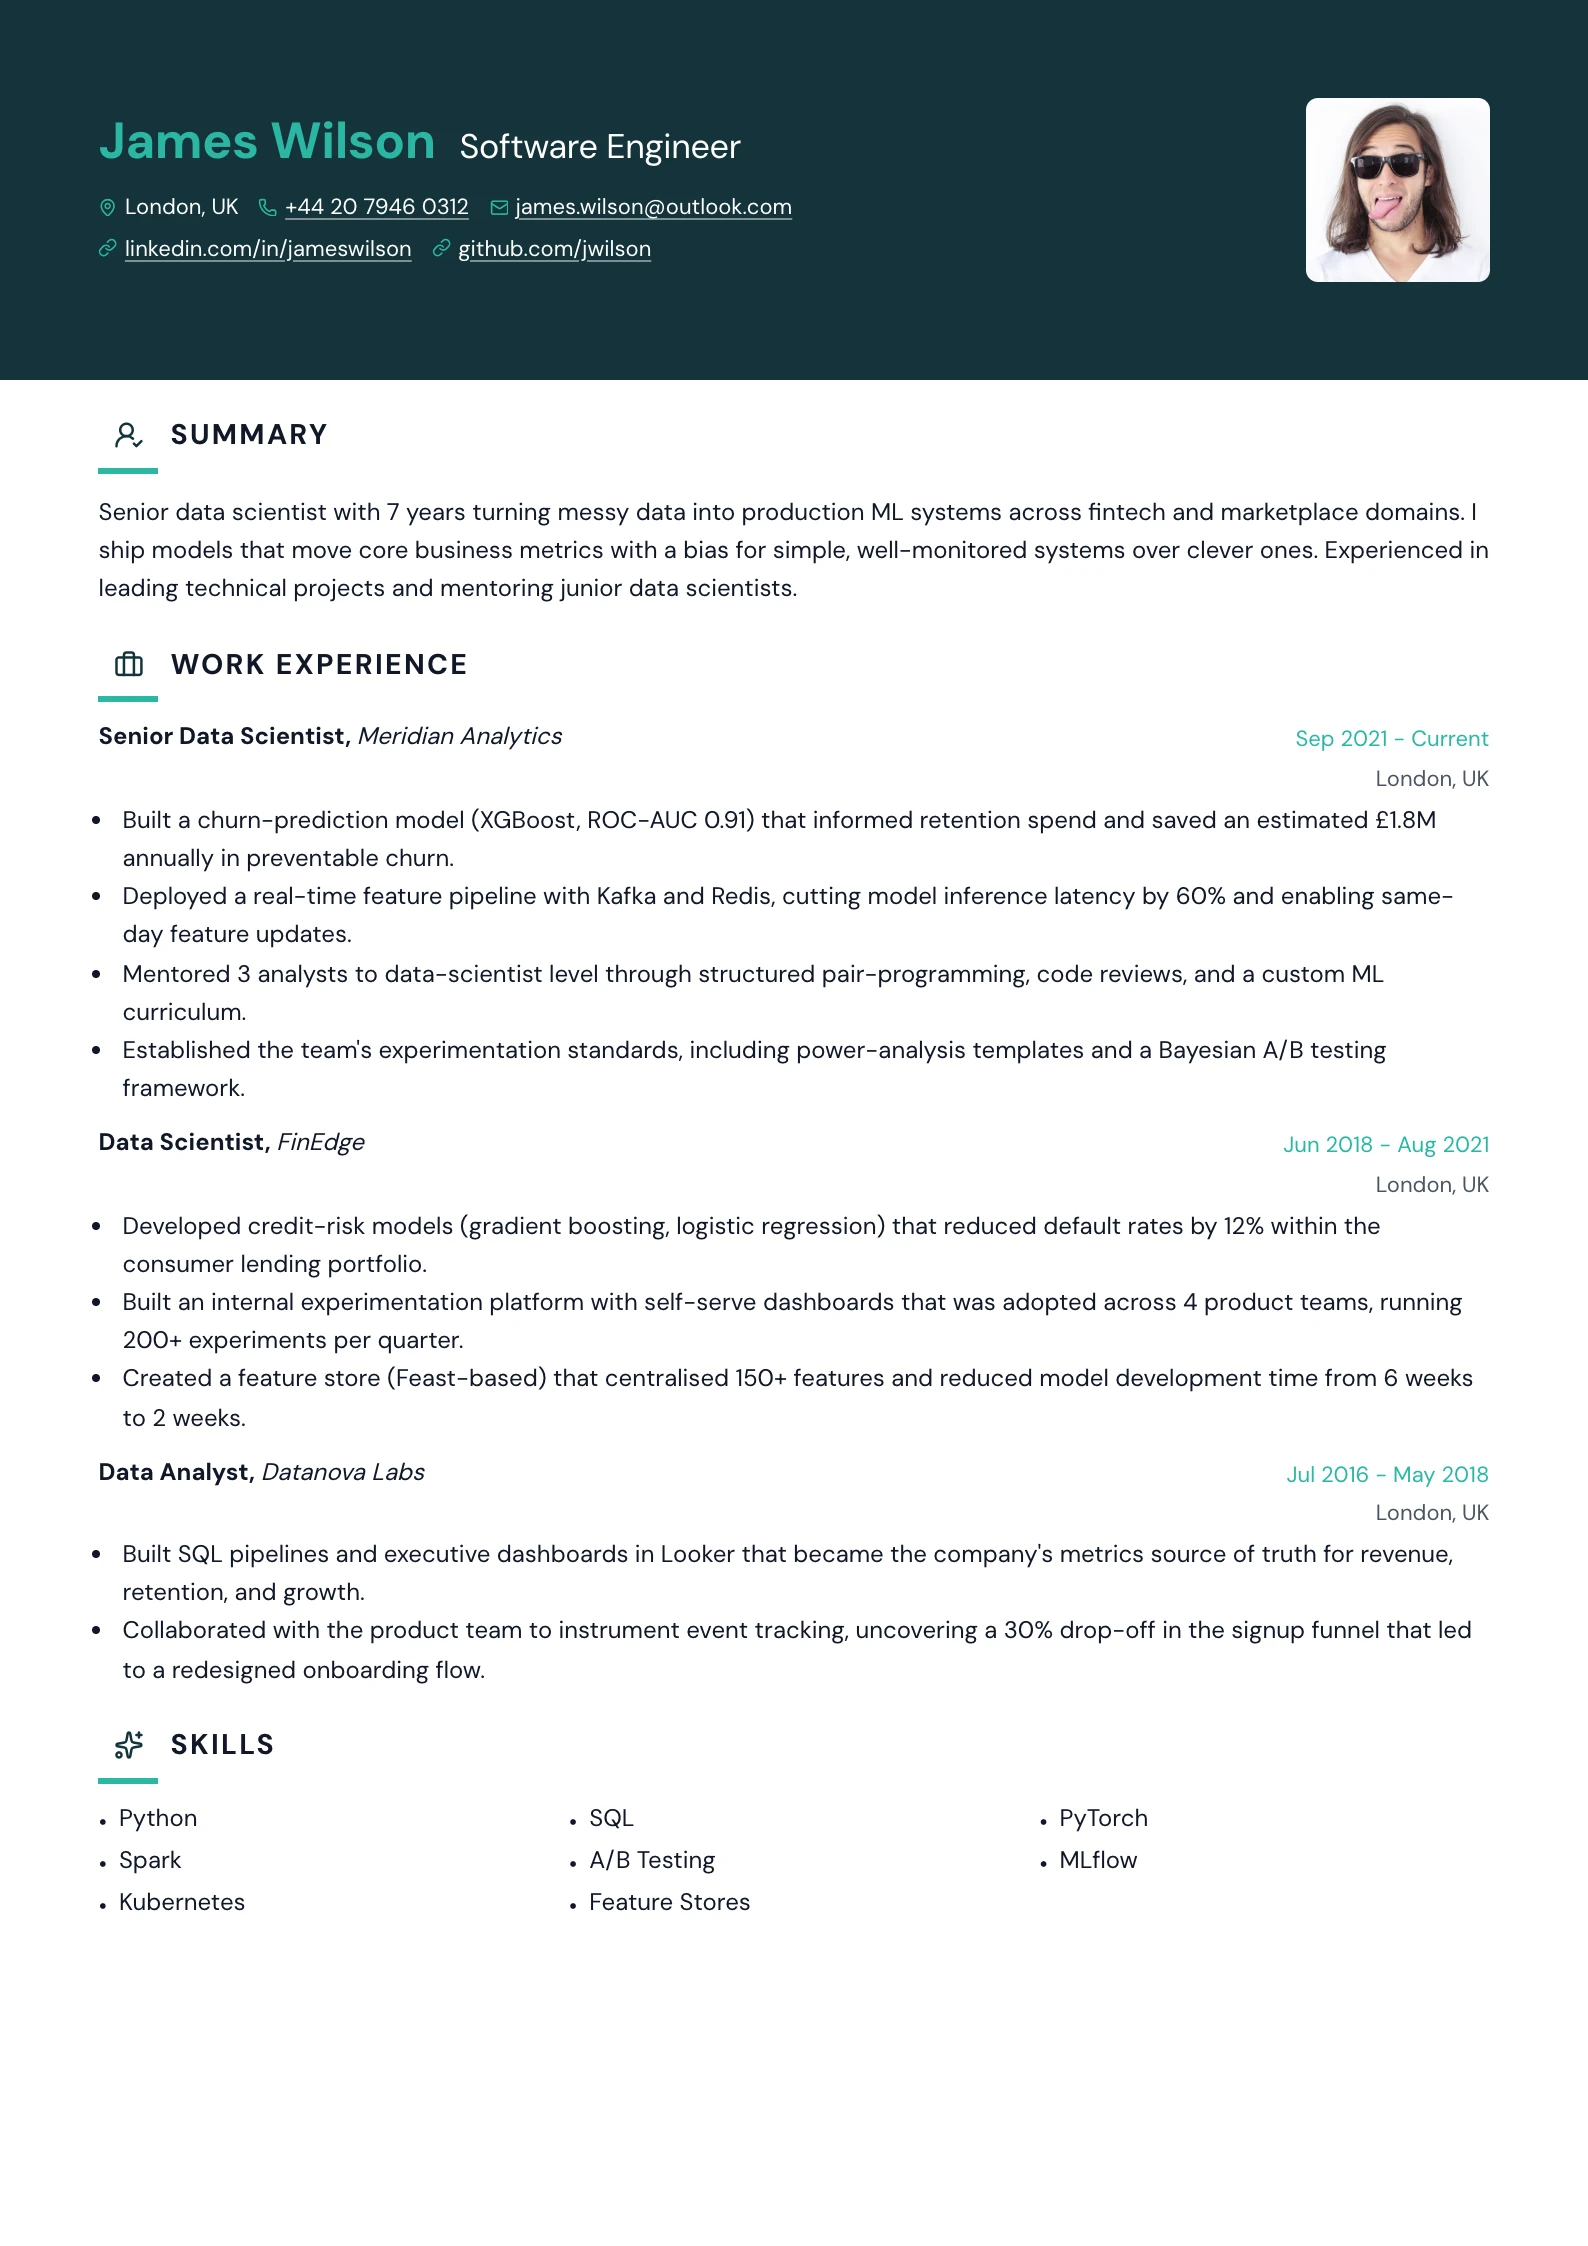
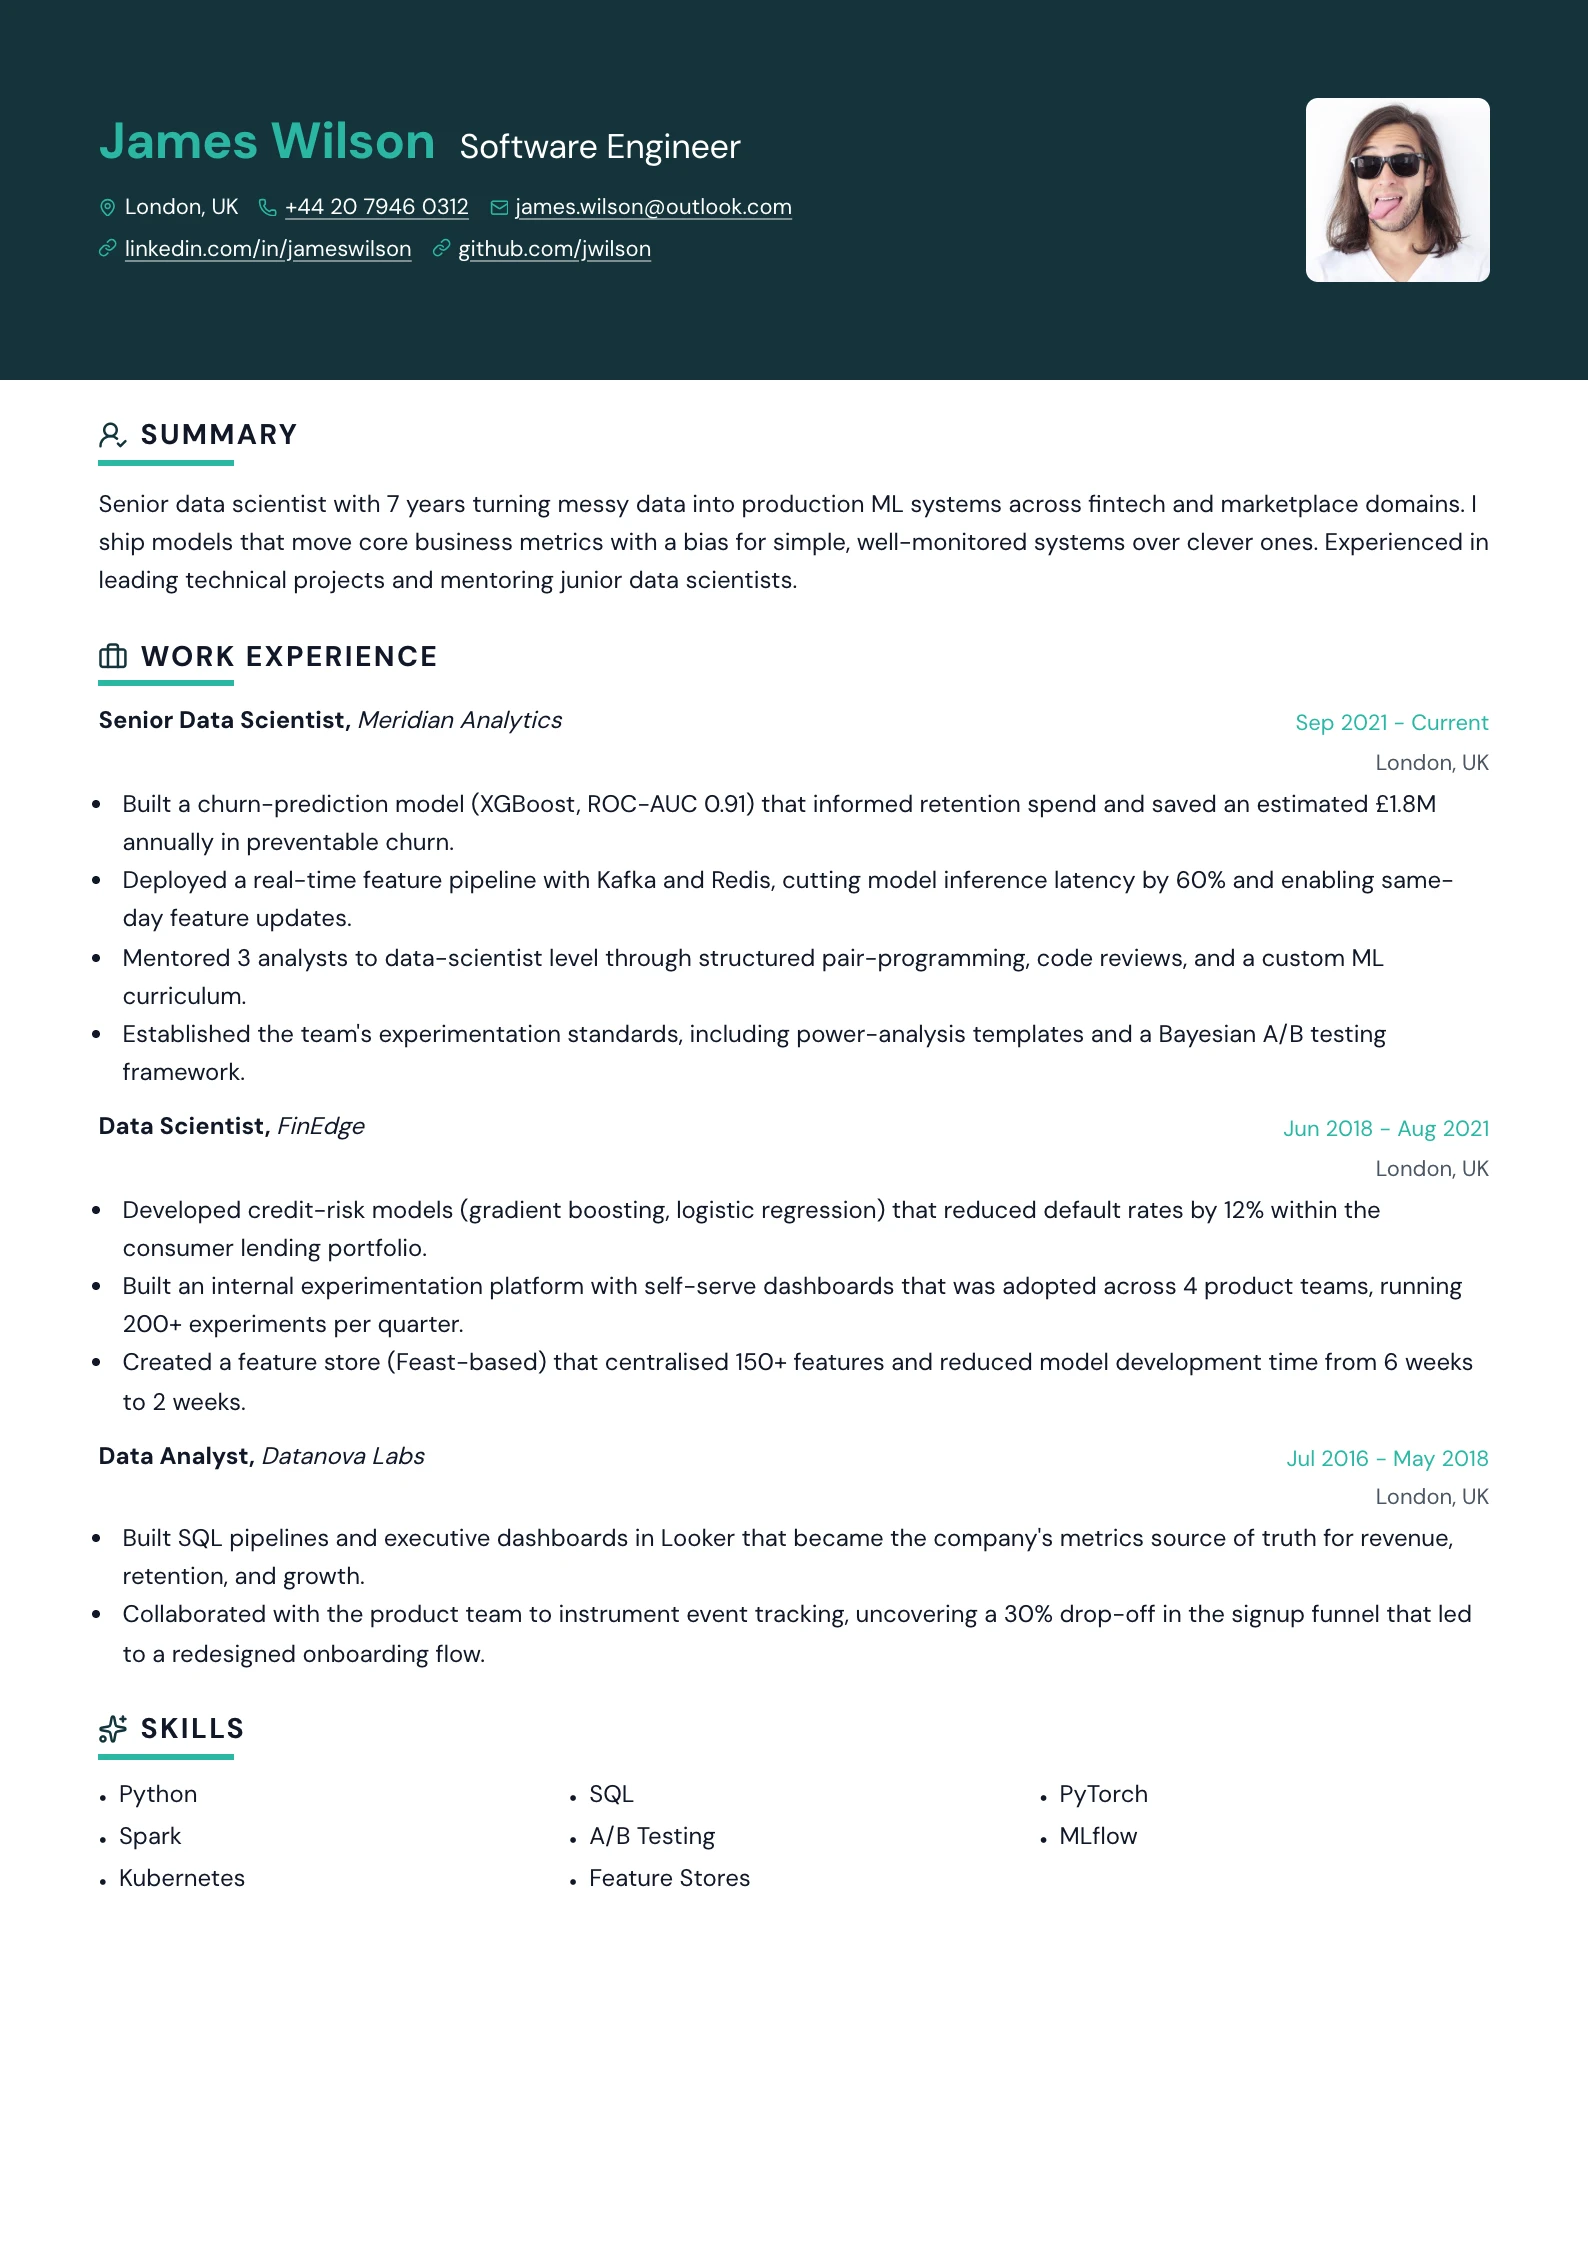
Raise and widen the accent bar under each heading
It sat 5px below the heading and stopped at the glyph, reading as a separate
rule rather than an underline. It now clears the text by 1px and runs 68px,
past the glyph and under the first word of the label.

Spanning `1 / -1` is what allows that: in column 1 alone the bar was capped at
the glyph, and its own 30px width was also what set that column's width — which
is why the label sits closer to the glyph now.

diff --git a/src/features/resume-editor/preview/layouts/marquee/styles.module.css b/src/features/resume-editor/preview/layouts/marquee/styles.module.css
@@ -31,10 +31,12 @@
 
 .layout :global(.section-heading)::after {
   content: "";
-  grid-column: 1;
-  width: 30px;
+  /* Spans both columns so a fixed width can run past the glyph and underlap the
+     first word of the label — sitting in column 1 alone capped it at the glyph. */
+  grid-column: 1 / -1;
+  width: 68px;
   height: 3px;
-  margin-top: 5px;
+  margin-top: 1px;
   background: var(--resume-accent);
   print-color-adjust: exact;
   -webkit-print-color-adjust: exact;
